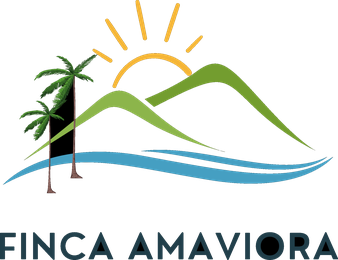
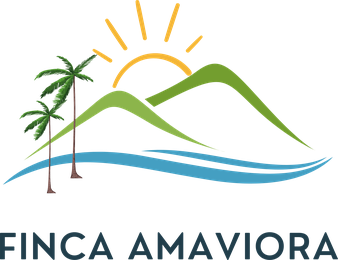
Add Schelling Point, swap Finca Amaviora to the PNG source, lay strip out three across

diff --git a/about.html b/about.html
@@ -46,8 +46,8 @@
 <link rel="stylesheet" href="https://fonts.googleapis.com/css2?family=Saira+Condensed:wght@500;600;700&family=Inter:wght@400;500;600;700&display=swap" media="print" onload="this.media='all'">
 <noscript><link rel="stylesheet" href="https://fonts.googleapis.com/css2?family=Saira+Condensed:wght@500;600;700&family=Inter:wght@400;500;600;700&display=swap"></noscript>
 
-<link rel="stylesheet" href="assets/css/tokens.css?v=0e206f8e">
-<link rel="stylesheet" href="assets/css/styles.css?v=0e206f8e">
+<link rel="stylesheet" href="assets/css/tokens.css?v=46a800b0">
+<link rel="stylesheet" href="assets/css/styles.css?v=46a800b0">
 <script type="application/ld+json">{
   "@context": "https://schema.org",
   "@graph": [
@@ -369,7 +369,8 @@
     <img src="assets/images/partners/wespark.webp" alt="WeSpark" loading="lazy">
     <img src="assets/images/partners/the-reset-party.webp" alt="The Reset Party" loading="lazy" style="max-height:96px">
     <img src="assets/images/partners/murphslife.webp" alt="MurphsLife" loading="lazy">
-    <img src="assets/images/partners/finca-amaviora.webp" alt="Finca Amaviora" loading="lazy" style="max-height:96px">
+    <img src="assets/images/partners/finca-amaviora.webp" alt="Finca Amaviora" loading="lazy" style="max-height:92px">
+    <img src="assets/images/partners/schelling-point.webp" alt="Schelling Point" loading="lazy">
   </div>
   </div>
 </section>
@@ -507,6 +508,6 @@
       </a>
     </div>
   </div>
-  <script src="assets/js/main.js?v=0e206f8e" defer></script>
+  <script src="assets/js/main.js?v=46a800b0" defer></script>
 </body>
 </html>

diff --git a/assets/css/styles.css b/assets/css/styles.css
@@ -215,9 +215,9 @@ section{position:relative}
 .partner p{color:var(--muted);font-size:.96rem}
 
 /* ---------- Partner logo strip ---------- */
-.logo-strip{display:flex;flex-wrap:wrap;align-items:center;justify-content:center;gap:clamp(2rem,7vw,5rem);margin-top:2.2rem}
-.logo-strip img{width:auto;height:auto;max-height:80px;max-width:210px;object-fit:contain}
-@media (max-width:680px){.logo-strip{gap:2.4rem}.logo-strip img{max-height:64px;max-width:165px}}
+.logo-strip{display:grid;grid-template-columns:repeat(3,1fr);align-items:center;justify-items:center;gap:clamp(2rem,5vw,3.4rem) clamp(1.5rem,4vw,3rem);margin-top:2.2rem}
+.logo-strip img{width:auto;height:auto;max-height:80px;max-width:100%;object-fit:contain}
+@media (max-width:680px){.logo-strip{grid-template-columns:repeat(2,1fr);gap:2rem 1.5rem}.logo-strip img{max-height:62px}}
 
 /* ---------- CTA band (Tap Into the Signal) ---------- */
 .signal{position:relative;color:#fff;text-align:center;overflow:hidden}

diff --git a/faq.html b/faq.html
@@ -46,8 +46,8 @@
 <link rel="stylesheet" href="https://fonts.googleapis.com/css2?family=Saira+Condensed:wght@500;600;700&family=Inter:wght@400;500;600;700&display=swap" media="print" onload="this.media='all'">
 <noscript><link rel="stylesheet" href="https://fonts.googleapis.com/css2?family=Saira+Condensed:wght@500;600;700&family=Inter:wght@400;500;600;700&display=swap"></noscript>
 
-<link rel="stylesheet" href="assets/css/tokens.css?v=0e206f8e">
-<link rel="stylesheet" href="assets/css/styles.css?v=0e206f8e">
+<link rel="stylesheet" href="assets/css/tokens.css?v=46a800b0">
+<link rel="stylesheet" href="assets/css/styles.css?v=46a800b0">
 <script type="application/ld+json">{
   "@context": "https://schema.org",
   "@type": "FAQPage",
@@ -295,6 +295,6 @@
       </a>
     </div>
   </div>
-  <script src="assets/js/main.js?v=0e206f8e" defer></script>
+  <script src="assets/js/main.js?v=46a800b0" defer></script>
 </body>
 </html>

diff --git a/index.html b/index.html
@@ -46,8 +46,8 @@
 <link rel="stylesheet" href="https://fonts.googleapis.com/css2?family=Saira+Condensed:wght@500;600;700&family=Inter:wght@400;500;600;700&display=swap" media="print" onload="this.media='all'">
 <noscript><link rel="stylesheet" href="https://fonts.googleapis.com/css2?family=Saira+Condensed:wght@500;600;700&family=Inter:wght@400;500;600;700&display=swap"></noscript>
 
-<link rel="stylesheet" href="assets/css/tokens.css?v=0e206f8e">
-<link rel="stylesheet" href="assets/css/styles.css?v=0e206f8e">
+<link rel="stylesheet" href="assets/css/tokens.css?v=46a800b0">
+<link rel="stylesheet" href="assets/css/styles.css?v=46a800b0">
 <script type="application/ld+json">{
   "@context": "https://schema.org",
   "@graph": [
@@ -492,6 +492,6 @@
       </a>
     </div>
   </div>
-  <script src="assets/js/main.js?v=0e206f8e" defer></script>
+  <script src="assets/js/main.js?v=46a800b0" defer></script>
 </body>
 </html>

diff --git a/membership.html b/membership.html
@@ -46,8 +46,8 @@
 <link rel="stylesheet" href="https://fonts.googleapis.com/css2?family=Saira+Condensed:wght@500;600;700&family=Inter:wght@400;500;600;700&display=swap" media="print" onload="this.media='all'">
 <noscript><link rel="stylesheet" href="https://fonts.googleapis.com/css2?family=Saira+Condensed:wght@500;600;700&family=Inter:wght@400;500;600;700&display=swap"></noscript>
 
-<link rel="stylesheet" href="assets/css/tokens.css?v=0e206f8e">
-<link rel="stylesheet" href="assets/css/styles.css?v=0e206f8e">
+<link rel="stylesheet" href="assets/css/tokens.css?v=46a800b0">
+<link rel="stylesheet" href="assets/css/styles.css?v=46a800b0">
 
 </head>
 <body>
@@ -297,6 +297,6 @@
       </a>
     </div>
   </div>
-  <script src="assets/js/main.js?v=0e206f8e" defer></script>
+  <script src="assets/js/main.js?v=46a800b0" defer></script>
 </body>
 </html>

diff --git a/privacy.html b/privacy.html
@@ -46,8 +46,8 @@
 <link rel="stylesheet" href="https://fonts.googleapis.com/css2?family=Saira+Condensed:wght@500;600;700&family=Inter:wght@400;500;600;700&display=swap" media="print" onload="this.media='all'">
 <noscript><link rel="stylesheet" href="https://fonts.googleapis.com/css2?family=Saira+Condensed:wght@500;600;700&family=Inter:wght@400;500;600;700&display=swap"></noscript>
 
-<link rel="stylesheet" href="assets/css/tokens.css?v=0e206f8e">
-<link rel="stylesheet" href="assets/css/styles.css?v=0e206f8e">
+<link rel="stylesheet" href="assets/css/tokens.css?v=46a800b0">
+<link rel="stylesheet" href="assets/css/styles.css?v=46a800b0">
 
 </head>
 <body>
@@ -309,6 +309,6 @@
       </a>
     </div>
   </div>
-  <script src="assets/js/main.js?v=0e206f8e" defer></script>
+  <script src="assets/js/main.js?v=46a800b0" defer></script>
 </body>
 </html>

diff --git a/stories.html b/stories.html
@@ -46,8 +46,8 @@
 <link rel="stylesheet" href="https://fonts.googleapis.com/css2?family=Saira+Condensed:wght@500;600;700&family=Inter:wght@400;500;600;700&display=swap" media="print" onload="this.media='all'">
 <noscript><link rel="stylesheet" href="https://fonts.googleapis.com/css2?family=Saira+Condensed:wght@500;600;700&family=Inter:wght@400;500;600;700&display=swap"></noscript>
 
-<link rel="stylesheet" href="assets/css/tokens.css?v=0e206f8e">
-<link rel="stylesheet" href="assets/css/styles.css?v=0e206f8e">
+<link rel="stylesheet" href="assets/css/tokens.css?v=46a800b0">
+<link rel="stylesheet" href="assets/css/styles.css?v=46a800b0">
 
 </head>
 <body>
@@ -393,6 +393,6 @@
       </a>
     </div>
   </div>
-  <script src="assets/js/main.js?v=0e206f8e" defer></script>
+  <script src="assets/js/main.js?v=46a800b0" defer></script>
 </body>
 </html>
